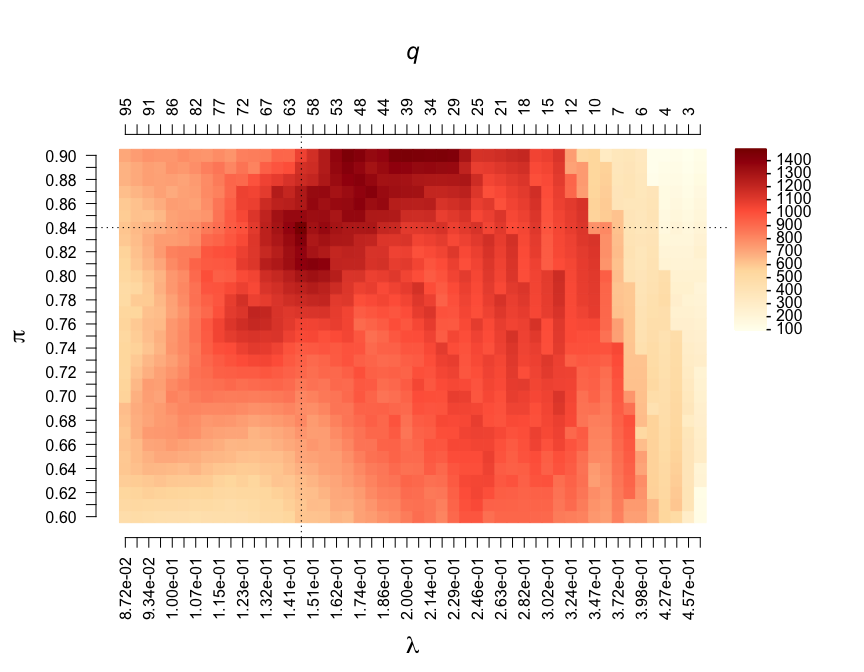
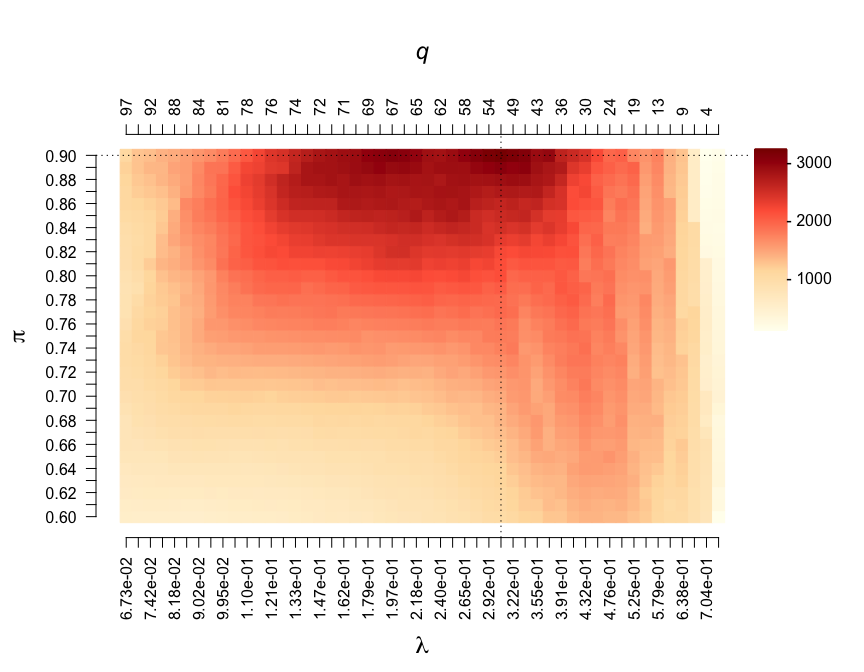
correct graphical simulation

diff --git a/README.md b/README.md
@@ -75,13 +75,13 @@ parameter values used in the run can be extracted using:
 ``` r
 # First few penalty parameters
 print(head(stab$Lambda)) 
-#>         [,1]
-#> s0 1.3893601
-#> s1 1.2875289
-#> s2 1.1931612
-#> s3 1.1057101
-#> s4 1.0246686
-#> s5 0.9495669
+#>        [,1]
+#> s0 1.416551
+#> s1 1.321390
+#> s2 1.232622
+#> s3 1.149818
+#> s4 1.072576
+#> s5 1.000523
 
 # Grid of thresholds in selection proportion
 print(stab$params$pi_list)
@@ -101,6 +101,7 @@ score, measuring how unlikely it is that features are uniformly
 selected:
 
 ``` r
+par(mar=c(7, 5, 7, 6))
 CalibrationPlot(stab)
 ```
 
@@ -122,13 +123,13 @@ The calibrated set of stably selected variables is obtained from:
 stably_selected=SelectedVariables(stab)
 print(stably_selected)
 #>  var1  var2  var3  var4  var5  var6  var7  var8  var9 var10 var11 var12 var13 
-#>     0     0     0     0     0     0     1     1     1     0     0     0     0 
+#>     0     0     0     0     0     0     0     1     1     0     0     0     0 
 #> var14 var15 var16 var17 var18 var19 var20 var21 var22 var23 var24 var25 var26 
 #>     0     0     0     0     0     0     0     0     0     0     0     0     0 
 #> var27 var28 var29 var30 var31 var32 var33 var34 var35 var36 var37 var38 var39 
 #>     0     0     1     0     0     1     0     1     0     0     0     0     0 
 #> var40 var41 var42 var43 var44 var45 var46 var47 var48 var49 var50 
-#>     1     0     0     1     1     1     0     0     0     0     1
+#>     1     0     1     1     1     1     0     0     0     0     1
 print(table(stably_selected))
 #> stably_selected
 #>  0  1 
@@ -144,13 +145,13 @@ extracted:
 selprop=SelectionProportions(stab)
 print(selprop)
 #>  var1  var2  var3  var4  var5  var6  var7  var8  var9 var10 var11 var12 var13 
-#>  0.07  0.10  0.35  0.06  0.08  0.08  0.91  0.99  1.00  0.17  0.05  0.15  0.70 
+#>  0.09  0.19  0.38  0.07  0.11  0.17  0.79  0.95  1.00  0.22  0.07  0.15  0.70 
 #> var14 var15 var16 var17 var18 var19 var20 var21 var22 var23 var24 var25 var26 
-#>  0.14  0.56  0.09  0.09  0.23  0.05  0.11  0.05  0.10  0.04  0.02  0.10  0.01 
+#>  0.15  0.62  0.14  0.12  0.34  0.10  0.17  0.08  0.14  0.08  0.06  0.14  0.02 
 #> var27 var28 var29 var30 var31 var32 var33 var34 var35 var36 var37 var38 var39 
-#>  0.07  0.16  0.96  0.14  0.11  0.91  0.07  0.99  0.29  0.18  0.04  0.05  0.11 
+#>  0.14  0.19  0.90  0.26  0.14  0.84  0.26  0.96  0.31  0.21  0.10  0.13  0.15 
 #> var40 var41 var42 var43 var44 var45 var46 var47 var48 var49 var50 
-#>  0.99  0.05  0.74  0.99  1.00  0.95  0.11  0.20  0.09  0.03  0.95
+#>  0.98  0.13  0.84  0.94  1.00  0.88  0.20  0.24  0.17  0.07  0.87
 ```
 
 Selection proportions can be used to rank the variables by relevance in
@@ -202,6 +203,7 @@ algorithm and threshold in selection proportion. These parameters are
 jointly calibrated by maximising the stability score:
 
 ``` r
+par(mar=c(7, 5, 7, 6))
 CalibrationPlot(stab)
 ```
 
@@ -216,46 +218,46 @@ model is obtained with:
 myadjacency=Adjacency(stab)
 print(myadjacency)
 #>       var1 var2 var3 var4 var5 var6 var7 var8 var9 var10 var11 var12 var13
-#> var1     0    0    0    0    0    0    0    0    0     0     0     0     1
-#> var2     0    0    0    0    0    0    0    0    0     0     0     0     0
+#> var1     0    0    0    0    0    0    0    0    0     0     0     0     0
+#> var2     0    0    0    0    0    0    1    0    0     0     0     0     0
 #> var3     0    0    0    0    0    0    0    0    0     0     0     0     0
 #> var4     0    0    0    0    0    0    0    1    0     0     0     0     0
 #> var5     0    0    0    0    0    0    0    0    1     0     0     0     0
 #> var6     0    0    0    0    0    0    0    0    0     0     0     0     0
-#> var7     0    0    0    0    0    0    0    0    0     1     0     0     0
+#> var7     0    1    0    0    0    0    0    0    0     1     0     0     1
 #> var8     0    0    0    1    0    0    0    0    0     0     0     0     0
 #> var9     0    0    0    0    1    0    0    0    0     0     0     0     0
 #> var10    0    0    0    0    0    0    1    0    0     0     0     0     0
-#> var11    0    0    0    0    0    0    0    0    0     0     0     1     0
-#> var12    0    0    0    0    0    0    0    0    0     0     1     0     0
-#> var13    1    0    0    0    0    0    0    0    0     0     0     0     0
+#> var11    0    0    0    0    0    0    0    0    0     0     0     0     0
+#> var12    0    0    0    0    0    0    0    0    0     0     0     0     0
+#> var13    0    0    0    0    0    0    1    0    0     0     0     0     0
 #> var14    0    0    0    0    0    0    0    0    0     0     0     0     0
 #> var15    0    1    0    0    0    0    0    0    0     0     0     0     0
-#> var16    0    0    0    1    0    0    0    0    0     0     0     0     0
+#> var16    0    0    0    1    0    0    0    1    0     0     0     0     0
 #> var17    1    0    0    0    0    0    0    0    0     0     0     0     0
-#> var18    0    0    0    0    1    0    0    0    0     0     0     0     0
+#> var18    0    0    0    0    1    0    0    0    1     0     0     0     0
 #> var19    0    1    0    0    0    0    0    0    0     0     0     0     0
-#> var20    0    0    0    0    1    0    1    0    0     0     0     1     1
+#> var20    1    0    1    1    1    1    1    0    0     0     1     1     1
 #>       var14 var15 var16 var17 var18 var19 var20
-#> var1      0     0     0     1     0     0     0
+#> var1      0     0     0     1     0     0     1
 #> var2      0     1     0     0     0     1     0
-#> var3      0     0     0     0     0     0     0
-#> var4      0     0     1     0     0     0     0
+#> var3      0     0     0     0     0     0     1
+#> var4      0     0     1     0     0     0     1
 #> var5      0     0     0     0     1     0     1
-#> var6      0     0     0     0     0     0     0
+#> var6      0     0     0     0     0     0     1
 #> var7      0     0     0     0     0     0     1
-#> var8      0     0     0     0     0     0     0
-#> var9      0     0     0     0     0     0     0
+#> var8      0     0     1     0     0     0     0
+#> var9      0     0     0     0     1     0     0
 #> var10     0     0     0     0     0     0     0
-#> var11     0     0     0     0     0     0     0
+#> var11     0     0     0     0     0     0     1
 #> var12     0     0     0     0     0     0     1
 #> var13     0     0     0     0     0     0     1
 #> var14     0     0     0     0     0     0     1
-#> var15     0     0     0     0     0     0     0
+#> var15     0     0     0     0     0     1     0
 #> var16     0     0     0     0     0     0     0
 #> var17     0     0     0     0     0     0     1
 #> var18     0     0     0     0     0     0     0
-#> var19     0     0     0     0     0     0     0
+#> var19     0     1     0     0     0     0     0
 #> var20     1     0     0     1     0     0     0
 ```
 
